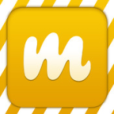
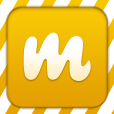
imagens para resoluções maiores

diff --git a/mime/index.html b/mime/index.html
@@ -8,15 +8,19 @@
 <!--[if gt IE 8]><!--> <html class="no-js" lang="pt-br"> <!--<![endif]-->
 <head>
     <meta charset="utf-8">
-    <meta name="viewport" content="width=device-width">
+    <meta name="viewport" content="width=initial-scale=1.0">
     <meta http-equiv="X-UA-Compatible" content="IE=edge,chrome=1">
+	<meta name="apple-itunes-app" content="app-id=565960430">
     <meta name="description" content="Mime &eacute; um cliente para iPhone (e iPod touch) do encurtador de urls migre.me">
 	
     <title>Mime - Side Quest</title>
 
-    <link rel="apple-touch-icon-precomposed" media="screen and (resolution: 163dpi)" href="images/57x57.png">
-    <link rel="apple-touch-icon-precomposed" media="screen and (resolution: 132dpi)" href="images/72x72.png">
-    <link rel="apple-touch-icon-precomposed" media="screen and (resolution: 326dpi)" href="images/114x114.png">
+    <link rel="author" href="../humans.txt" />
+    <link rel="apple-touch-icon-precomposed" sizes="57x57" href="images/57x57.png">
+    <link rel="apple-touch-icon-precomposed" sizes="72x72"  href="images/72x72.png">
+    <link rel="apple-touch-icon-precomposed" sizes="144x144" href="images/114x114.png">
+	<link rel="apple-touch-icon-precomposed" sizes="512x512" href="images/512x512.png">
+	<link rel="apple-touch-icon-precomposed" sizes="1024x1024" href="images/1024x1024.png">
     <link rel="shortcut icon" href="images/favicon.png" type="image/x-icon" />
 
     <link rel="stylesheet" type="text/css" href="css/normalize.css" />
